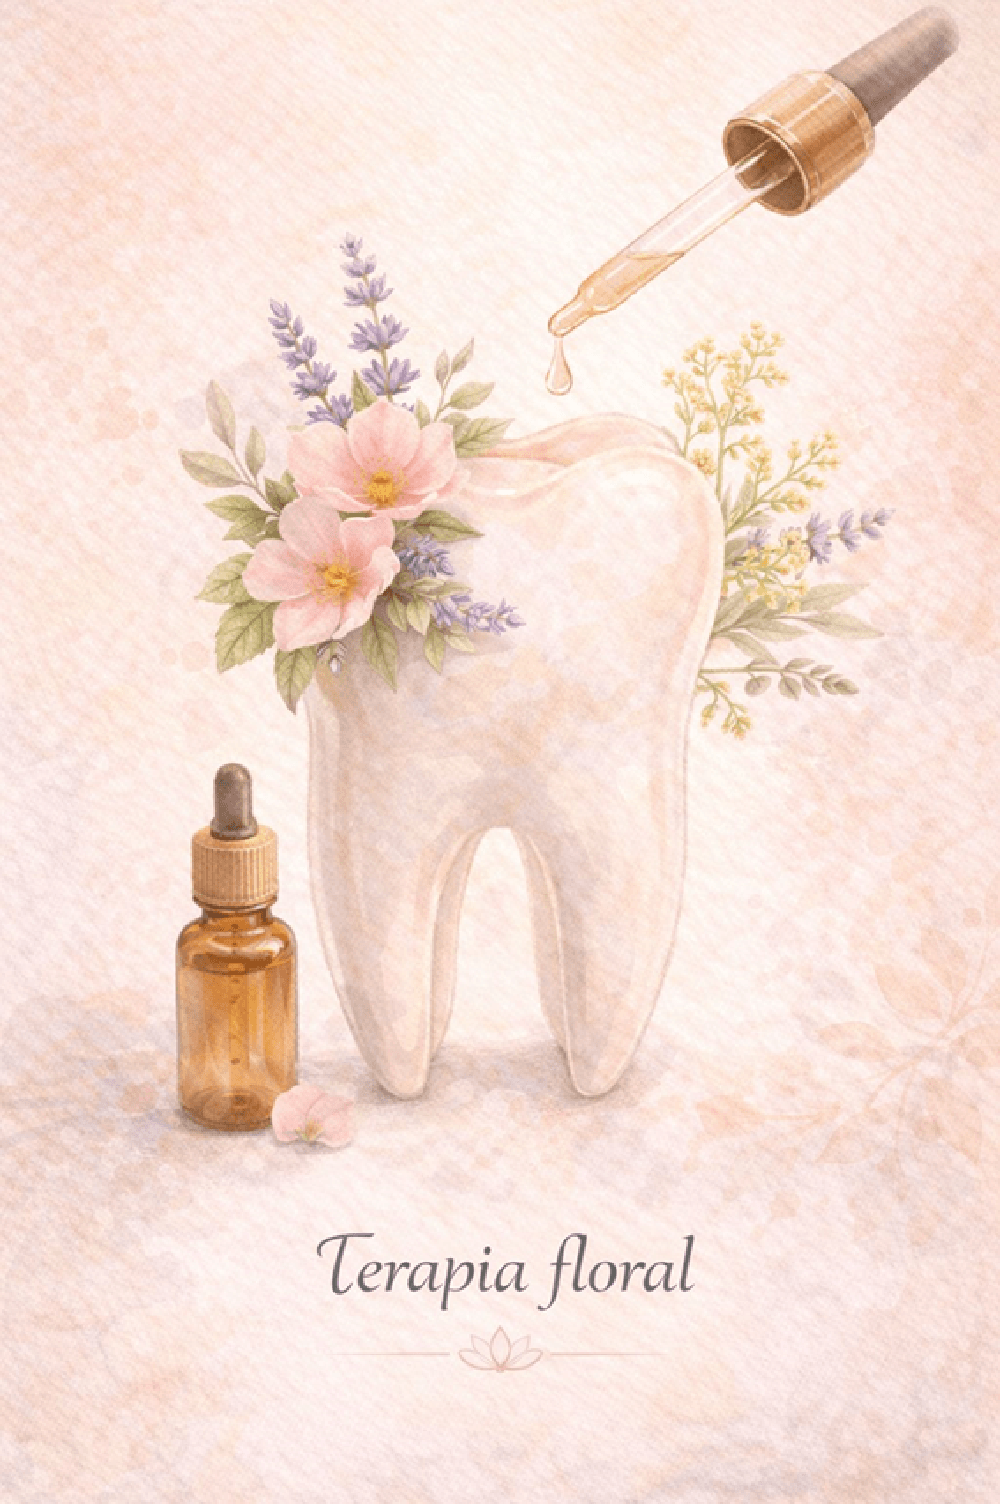
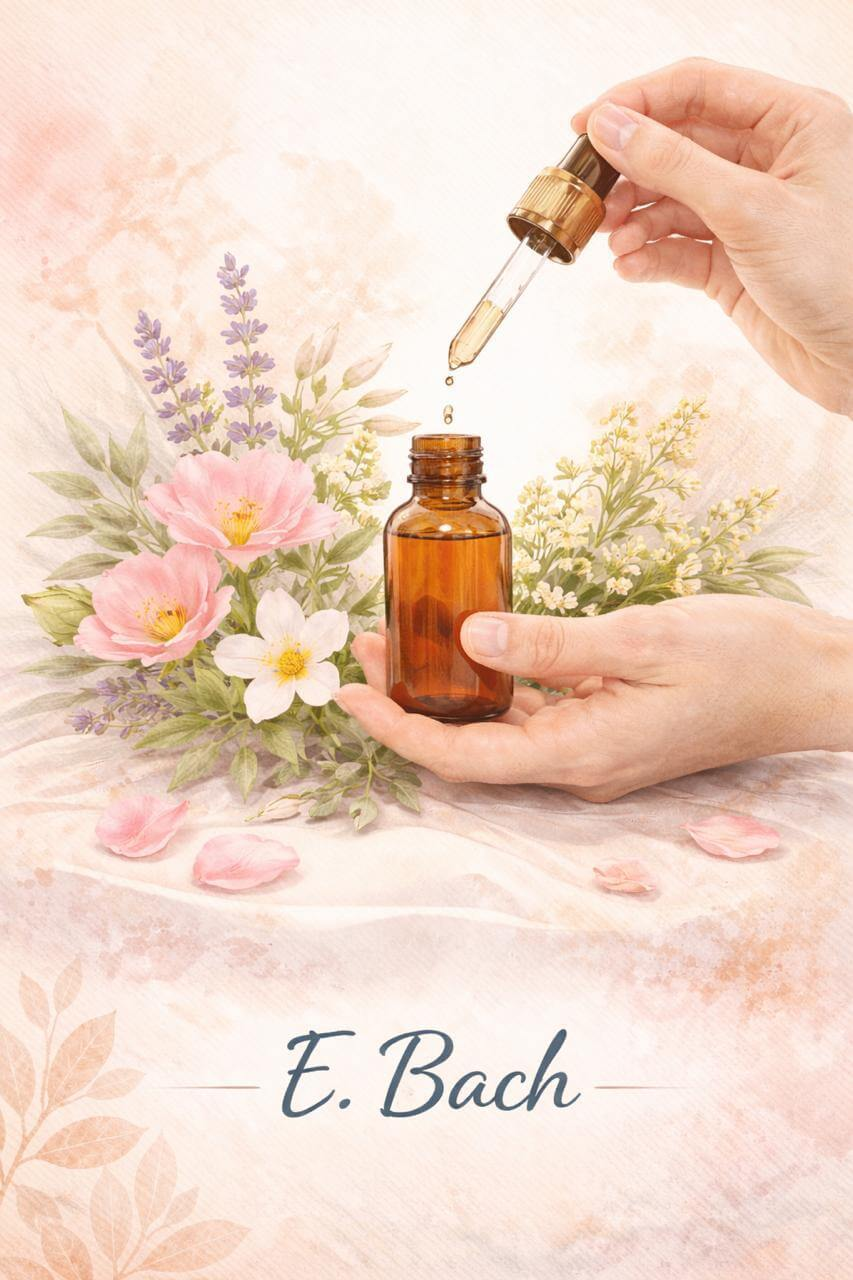
Add files via upload

diff --git a/index.html b/index.html
@@ -1379,13 +1379,13 @@
                     data-tag="Sistema nervioso · Neurofocal" data-title="Terapia Neural y Neurofocal"
                     data-desc="Aplicaciones específicas para regular el sistema nervioso y tratar interferencias —cicatrices, focos crónicos— que afectan la regulación del organismo."
                     data-bullets='["Regulación del sistema nervioso autónomo","Tratamiento de cicatrices e interferencias crónicas","Reducción del dolor e inflamación","Equilibrio mente-cuerpo mediante inyecciones suaves"]'>
-                   
+                   <img src="./assets/img/terapiaNeural.png" alt="Terapia Neural y Neurofocal" class="terapia-img" />
                     <div class="terapia-body">
                         <span class="terapia-tag">Sistema nervioso · Neurofocal</span>
-                        <h3>Terapia Neural y Neurofocal</h3>
-                        <p>Utilizamos aplicaciones en puntos específicos para regular el sistema nervioso y tratar
-                            interferencias —cicatrices, focos crónicos— que afectan la regulación del organismo.
-                            Se restablece el equilibrio en los campos de interferencia.</p>
+                        <h3>Terapia Neural y Neurofocal A</h3>
+                        <p>Es una mirada terapéutica integrativa que busca acompañar al organismo en sus procesos de regulación y bienestar 
+Trabaja comprendiendo que el cuerpo está conectado a través del sistema nervioso y que ciertos desequilibrios e  interferencias se  pueden manifestar tanto físico como emocional..</p>
+                            <p>Su objetivo es favorecer la comunicación y armonía del organismo, estimulando la capacidad natural del cuerpo para su bienestar</p>
                         <a href="https://wa.me/5491159980525" class="terapia-link" target="_blank">Consultar</a>
                     </div>
                 </div>
@@ -1475,7 +1475,7 @@
             <div class="floral-detail-inner">
 
                 <div class="floral-detail-img-wrap reveal">
-                    <img src="./assets/img/terapia-floral.png" alt="Terapia Floral Odontológica" />
+                    <img src="./assets/img/terapia-floral1.png" alt="Terapia Floral Odontológica" />
                     <div class="floral-detail-badge">
                         <p>🌸 Flores de Bach · Aval OMS</p>
                         
@@ -1778,7 +1778,7 @@ Actualmente desarrolla una especialización en acupuntura aplicada a las emocion
                     <path
                         d="M12 2.163c3.204 0 3.584.012 4.85.07 3.252.148 4.771 1.691 4.919 4.919.058 1.265.069 1.645.069 4.849 0 3.205-.012 3.584-.069 4.849-.149 3.225-1.664 4.771-4.919 4.919-1.266.058-1.644.07-4.85.07-3.204 0-3.584-.012-4.849-.07-3.26-.149-4.771-1.699-4.919-4.92-.058-1.265-.07-1.644-.07-4.849 0-3.204.013-3.583.07-4.849.149-3.227 1.664-4.771 4.919-4.919 1.266-.057 1.645-.069 4.849-.069zm0-2.163c-3.259 0-3.667.014-4.947.072-4.358.2-6.78 2.618-6.98 6.98-.059 1.281-.073 1.689-.073 4.948 0 3.259.014 3.668.072 4.948.2 4.358 2.618 6.78 6.98 6.98 1.281.058 1.689.072 4.948.072 3.259 0 3.668-.014 4.948-.072 4.354-.2 6.782-2.618 6.979-6.98.059-1.28.073-1.689.073-4.948 0-3.259-.014-3.667-.072-4.947-.196-4.354-2.617-6.78-6.979-6.98-1.281-.059-1.69-.073-4.949-.073zm0 5.838c-3.403 0-6.162 2.759-6.162 6.162s2.759 6.163 6.162 6.163 6.162-2.759 6.162-6.163c0-3.403-2.759-6.162-6.162-6.162zm0 10.162c-2.209 0-4-1.79-4-4 0-2.209 1.791-4 4-4s4 1.791 4 4c0 2.21-1.791 4-4 4zm6.406-11.845c-.796 0-1.441.645-1.441 1.44s.645 1.44 1.441 1.44c.795 0 1.439-.645 1.439-1.44s-.644-1.44-1.439-1.44z" />
                 </svg>
-                @gms.bienestar
+                @gms.odontologiaintegrativa
             </a>
         </div>
         <p class="footer-copy">© 2025 Swami – Odontología Holística · Todos los derechos reservados</p>